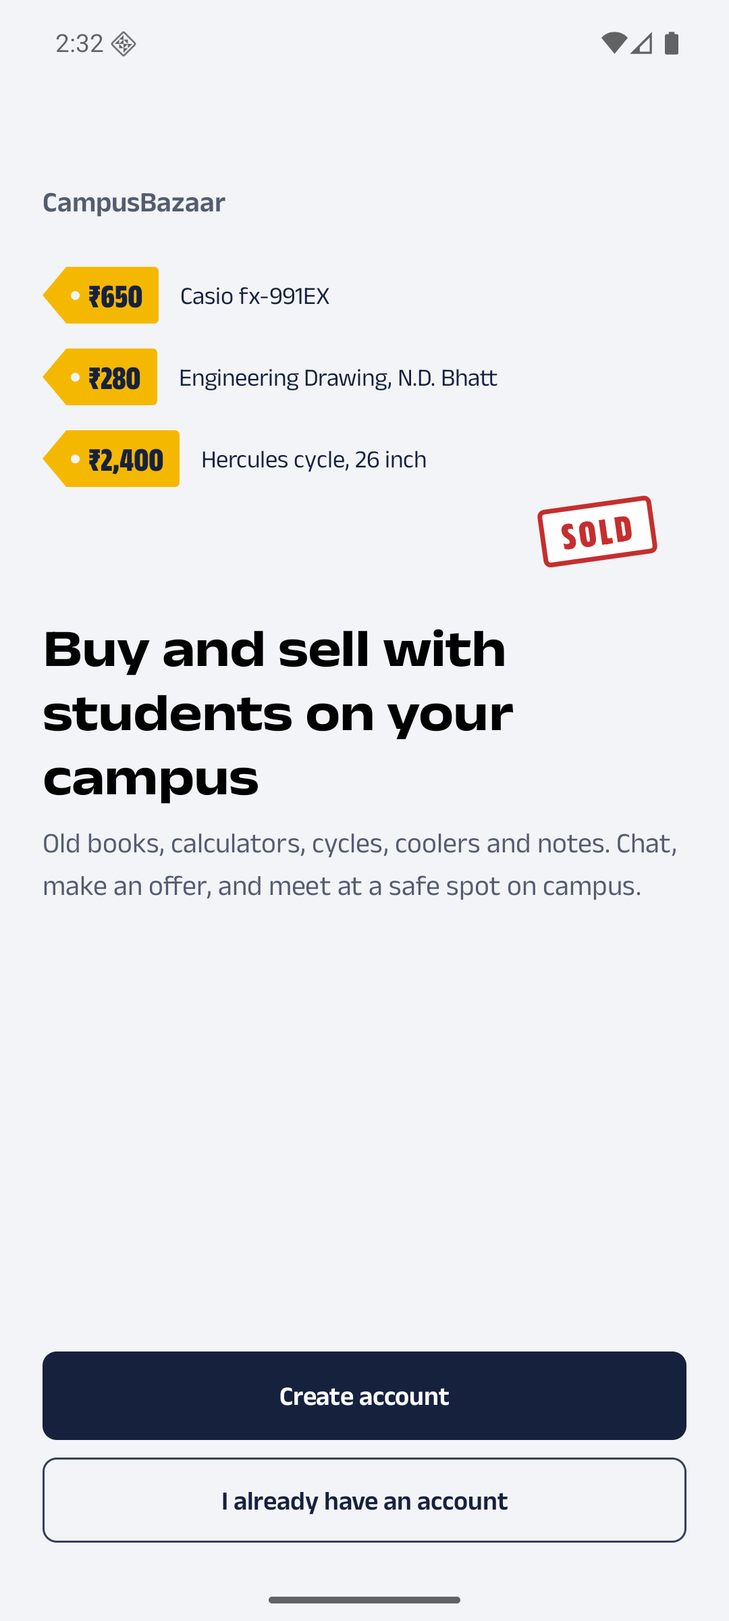
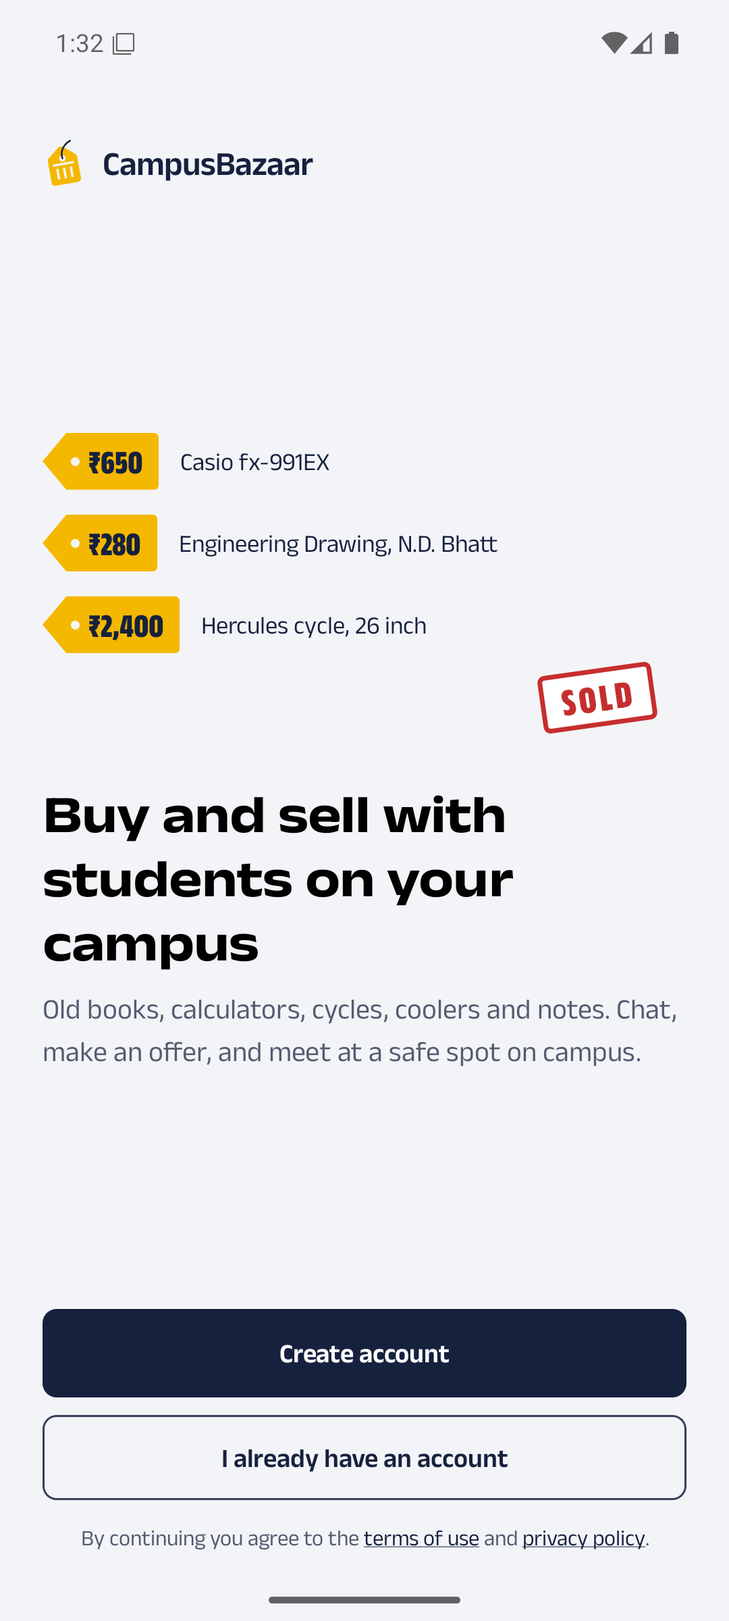
Rewrite the README and sync AGENTS.md for v1.1.0
Explains what CampusBazaar is and does, how Nexconn is integrated (who
owns identity and provisioning vs. live messaging, a feature table, and
what we learned: silent joins to missing community channels, timeout
disabling reconnection, key-bound tokens), the website, production
readiness, release and App Key rotation runbooks. New website and
welcome screenshots.

diff --git a/README.md b/README.md
@@ -1,47 +1,66 @@
-# CampusBazaar
+<p align="center">
+  <img src="server/public/brand/app-icon.svg" width="96" height="96" alt="CampusBazaar logo: a marigold price tag that doubles as a college portico">
+</p>
 
-The buy-and-sell marketplace inside your college. Students sell used books, calculators, cycles,
-coolers, hostel gear and notes to other students on the same campus, then chat, negotiate with
-offer cards and meet at a safe spot on campus. Prices in ₹.
+<h1 align="center">CampusBazaar</h1>
 
-- **Android app (signed APK):** https://n2leoh3capfibtkl.public.blob.vercel-storage.com/cbz/releases/campusbazaar-v1.0.0.apk
-  (also attached to the GitHub Release `v1.0.0`)
-- **Backend (Vercel production):** https://campusbazaar-api.vercel.app
+<p align="center">
+  The buy-and-sell marketplace inside your college, with real-time chat on Nexconn.
+</p>
 
-Built for the Nexconn Build Challenge 2026: a native Kotlin + Jetpack Compose app on the Nexconn
-Android Chat SDK, with a Next.js API on Vercel, Neon Postgres, Vercel Blob and Gemini vision.
+<p align="center">
+  <a href="https://campusbazaar-api.vercel.app">Website</a> ·
+  <a href="https://campusbazaar-api.vercel.app/download">Download for Android (v1.1.0)</a> ·
+  <a href="https://campusbazaar-api.vercel.app/safety">Safe meetup guide</a>
+</p>
+
+Students sell used books, calculators, cycles, coolers, hostel gear and notes to other students on the
+same campus. They chat, haggle with offer cards that update live on both phones, and meet at a safe
+spot on campus. Prices are in ₹ and everything is scoped to the student's campus.
+
+Built for the Nexconn Build Challenge 2026: a native Kotlin + Jetpack Compose app on the **Nexconn
+Android Chat SDK**, and a Next.js server (API and website) that uses the **Nexconn Platform Chat API**,
+on Vercel with Neon Postgres, Vercel Blob and Gemini vision.
+
+![CampusBazaar website](docs/screenshots/00-website.png)
+
+- **Android app:** [signed APK v1.1.0](https://campusbazaar-api.vercel.app/download/apk) (Android 8.0+),
+  install steps on the [download page](https://campusbazaar-api.vercel.app/download)
+- **Website and API (Vercel production):** https://campusbazaar-api.vercel.app
 
 ## What it does
 
 1. **Sign up and pick your campus.** Campuses are real rows anyone can add (name + city, deduped:
    "I.I.T. Delhi" and "IIT delhi" are the same campus). Adding a campus provisions its Nexconn
    community channel; joining one adds you to it.
-2. **Sell in under a minute.** Take photos with the in-app camera (CameraX) or pick up to 5 from
-   the photo picker. Photos upload through the server to Blob, and **Gemini vision drafts the
-   title, category, condition, description and a fair used price range in ₹**. The seller edits
-   anything, sets price, negotiable yes/no and a meetup spot. Low-confidence drafts stay
-   suggestions. Edit, reserve, mark sold or delete your listings.
+2. **Sell in under a minute.** Take photos with the in-app camera (CameraX) or pick up to 5 from the
+   photo picker. Photos upload through the server to Blob, and **Gemini vision drafts the title,
+   category, condition, description and a fair used price range in ₹**. The seller edits anything,
+   sets price, negotiable yes/no and a meetup spot. Edit, reserve, mark sold or delete listings.
 3. **Browse and find.** Campus feed (newest first), category chips, search, filters (price range,
    condition, sort), listing detail with photo pager and seller card (rating, response rate, items
    sold), saved items, and **Wanted** posts that sellers answer with one of their listings.
 4. **Chat and negotiate.** "Chat with seller" opens the Nexconn direct channel between the two
-   students, anchored by a **listing card**. **Offer cards** (Accept / Counter / Decline) keep
-   their live state in Nexconn **message metadata**, mirrored from the server's deal records, so
-   both phones update instantly. Accepting reserves the item for that buyer. A **meetup card**
-   proposes a campus spot and time (optionally with a **location message**). The seller marks it
-   sold and both sides rate each other. Text, photos, read state, unread badges, conversation list.
+   students, anchored by a **listing card**. **Offer cards** (Accept / Counter / Decline) keep their
+   live state in Nexconn **message metadata**, mirrored from the server's deal records, so both phones
+   update instantly. Accepting reserves the item for that buyer. A **meetup card** proposes a campus
+   spot and time (optionally with a **location message**). The seller marks it sold and both sides
+   rate each other. Text, photos, read receipts, unread badges, conversation list.
 5. **Campus Square.** Each campus has a Nexconn community channel with #general, #books,
    #electronics, #rides-and-trips and #lost-and-found.
-6. **Safety.** Block (Nexconn blocklist + server record that hides listings both ways), report a
-   user or listing, hide a listing, and safe-meetup tips.
+6. **Safety.** Block (Nexconn blocklist + a server record that hides listings both ways and stops
+   every deal action), report a student or listing, hide a listing, and safe-meetup tips.
 7. **Activity inbox.** Reservations, sales, ratings and wanted-post responses arrive as Nexconn
    **system-channel** notices from the CampusBazaar bot, with an in-app banner in real time.
+8. **Account deletion,** in the app (Profile → Delete account) or on the
+   [website](https://campusbazaar-api.vercel.app/delete-account). It anonymises the account, takes
+   down listings and wanted posts, and revokes the student's Nexconn tokens.
 
 ## Screenshots
 
-Real screenshots from the release APK on an Android 16 emulator, against production. The buyer
-in these runs is a second real account driven through the backend and the Nexconn Platform Chat
-API (`server/scripts/second-student.mjs`).
+Real screenshots from the release APK on an Android 16 emulator, against production. The second
+student in these runs is a real account driven through the backend and the Nexconn Platform Chat API
+(`server/scripts/second-student.mjs`).
 
 | | | |
 |---|---|---|
@@ -51,47 +70,119 @@ API (`server/scripts/second-student.mjs`).
 
 More in [docs/screenshots](docs/screenshots).
 
-## How this uses Nexconn
+## How Nexconn is integrated
 
-| Nexconn feature | Where |
-|---|---|
-| Android Chat SDK init, Singapore data center (`AreaCode.SG`), custom message registration | `android/.../chat/NexconnManager.kt` `ensureInitialized` |
-| Connect once per lifecycle, connection status handler, reconnect UI, **token refresh** on 31004/31020 and `TOKEN_INCORRECT` | `NexconnManager.connect`, `data/session/SessionManager.kt`, server `POST /api/me/nexconn-token` |
-| **Direct channels** (buyer–seller chat) | `ui/chats/ChatViewModel.kt` (`DirectChannel`) |
-| **Custom message types**: `cbz:listing`, `cbz:offer`, `cbz:meetup`, `cbz:deal`, `cbz:notice` | `chat/messages/CustomMessages.kt` |
-| **Message metadata** for offer and meetup state (sent with initial metadata, updated with `setMetadata`, `onMessageMetadataUpdated`) | `ChatViewModel.mirror`, `NexconnManager.setMetadata`; server-side equivalent in `server/scripts/second-student.mjs` |
-| **Image messages** (SDK media upload with progress) | `ChatViewModel.sendImage`, `SquareScreens.kt` |
-| **Location messages** (`RC:LBSMsg` with rendered preview) | `ChatViewModel.shareLocation`, `util/LocationThumb.kt`, relay `server/src/app/api/chats/location` |
-| **Read receipts** (`needReceipt`, `sendReadReceiptResponse`, `getMessageReadReceiptInfo`, `onMessageReceiptResponse`) | `ChatViewModel.markRead` / `refreshReceipts` |
-| **Typing indicators** (`sendTypingStatus`, `onTypingStatusChanged`) | `ChatViewModel.onTyping` / `startTyping` |
-| **Unread counts** and `clearUnreadCount` | `ConversationsScreen.kt`, `AppRoot.kt` `BadgesViewModel`, `SquareViewModel` |
-| **Conversation list** (`createChannelsQuery`) | `ConversationsViewModel` |
-| **History pagination** (`createMessagesQuery`, `loadNextPage`) | `ChatViewModel.loadHistory`, `SubchannelViewModel`, `ActivityViewModel` |
-| **Community channels + subchannels**: create, create subchannels, join, leave, membership check, list (Platform Chat API); send/receive and subchannel unread (SDK) | `server/src/lib/nexconn.ts`, `server/src/lib/campus-membership.ts`, `server/src/app/api/campus/square`, `android/.../ui/square/SquareScreens.kt` |
-| **System channel** notices from a bot account (Platform Chat API) shown as the Activity inbox | `nexconn.ts` `sendSystemNotice`, `ui/profile/ProfileScreens.kt` `ActivityViewModel` |
-| **User blocking** (`addToBlocklist` / `removeFromBlocklist`) | `NexconnManager.block`, chat/profile/listing menus |
-| **Server-side direct messages** and **message metadata** (Platform Chat API) | `nexconn.ts` `sendDirectMessage`, `setDirectMessageMetadata`; `scripts/second-student.mjs` |
-| User profile sync to Nexconn (`/v4/user/update`) | `server/src/app/api/me/route.ts` |
+```
+Android app (Compose, Retrofit, Nexconn Chat SDK 26.4.2)
+   |  HTTPS JSON (Bearer JWT)                 |  Nexconn SDK socket (Singapore data center)
+   v                                          v
+Next.js on Vercel (API + website)  ------->  Nexconn Platform Chat API (api.sg-light-api.com)
+   |  Drizzle (neon-http)   |  @vercel/blob     tokens, community channels, system notices,
+   v                        v                   direct messages, message metadata, blocklist
+Neon Postgres           Vercel Blob (photos, APK)
+   |
+   +--> Gemini (vision listing drafts, server-side key only)
+```
 
-The App Secret lives only in server env vars. The APK contains no secrets: it fetches the App Key
-from the session response / `GET /api/config`.
+The split is deliberate. **The server owns identity and provisioning**: it registers each student
+with Nexconn and issues their access token, creates and joins community channels, sends bot notices,
+and mirrors blocks. **The app owns live messaging** through the SDK: direct chats, custom cards,
+metadata updates, receipts, typing and unread counts. The server is the source of truth for deal
+state (offers, meetups, reservations); Nexconn message metadata mirrors it so both phones update
+without polling.
+
+| Nexconn feature | What students see | Where |
+|---|---|---|
+| Android Chat SDK init, Singapore data center (`AreaCode.SG`), custom message registration | — | `android/.../chat/NexconnManager.kt` `ensureInitialized` |
+| Access tokens issued by the server (`/v4/auth/access-token/issue`), one connect per lifecycle, refresh on 31004/31020 and `TOKEN_INCORRECT`, single-flight refresh | Stays signed in to chat | `NexconnManager.connect`, `data/session/SessionManager.kt`, `POST /api/me/nexconn-token` |
+| **Direct channels** | "Chat with seller" | `ui/chats/ChatViewModel.kt` (`DirectChannel`) |
+| **Custom message types**: `cbz:listing`, `cbz:offer`, `cbz:meetup`, `cbz:deal`, `cbz:notice` | Listing, offer, meetup and deal cards | `chat/messages/CustomMessages.kt` |
+| **Message metadata** (sent with initial metadata, updated with `setMetadata`, `onMessageMetadataUpdated`; server-side `/v4/channel-type/message/metadata/set`) | Offer and meetup cards change state live on both phones | `ChatViewModel.mirror`, `NexconnManager.setMetadata`, `scripts/second-student.mjs` |
+| **Image messages** (SDK media upload with progress) | Photos in chat and Campus Square | `ChatViewModel.sendImage`, `SquareScreens.kt` |
+| **Location messages** (`RC:LBSMsg` with rendered preview) | Map pin on a meetup | `ChatViewModel.shareLocation`, `util/LocationThumb.kt`, relay `api/chats/location` |
+| **Read receipts** (`needReceipt`, `sendReadReceiptResponse`, `getMessageReadReceiptInfo`) | Seen ticks, only while the chat is on screen | `ChatViewModel.markRead` / `refreshReceipts` |
+| **Typing indicators** (`sendTypingStatus`, `onTypingStatusChanged`) | "typing…" | `ChatViewModel.onTyping` |
+| **Unread counts**, `clearUnreadCount`, **conversation list** (`createChannelsQuery`) | Chats tab and badges | `ConversationsScreen.kt`, `AppRoot.kt` `BadgesViewModel` |
+| **History pagination** (`createMessagesQuery`, `loadNextPage`) | Scroll back through a chat | `ChatViewModel.loadHistory`, `SubchannelViewModel`, `ActivityViewModel` |
+| **Community channels + subchannels** (create, subchannel create/list, join, leave, member check via the Platform API; send/receive via the SDK) | Campus Square | `server/src/lib/nexconn.ts`, `server/src/lib/campus-membership.ts`, `api/campus/square`, `ui/square/SquareScreens.kt` |
+| **System channel** notices from a bot (`/v4/system-channel/message/send`) | Activity inbox and banners | `nexconn.ts` `sendSystemNotice`, `ProfileScreens.kt` `ActivityViewModel` |
+| **User blocklist** (SDK `addToBlocklist` plus server `/v4/user/blocklist/add` and `/remove`) | Block a student | `NexconnManager.block`, `api/blocks` |
+| **Server-side direct messages** (`/v4/direct-channel/message/send`) | Location relay, demo buyer | `nexconn.ts` `sendDirectMessage` |
+| User profile sync (`/v4/user/update`) and **token expiry** (`/v4/auth/access-token/expire`) | Name and photo in chat; chat access revoked on account deletion | `api/me`, `server/src/lib/account.ts` |
+
+The App Secret lives only in server env vars. The APK contains no secrets: it gets the App Key from
+the session response and `GET /api/config`.
+
+### What we learned about Nexconn
+
+- **Joining a community channel that doesn't exist succeeds.** `community-channel/join` returns
+  `code 0` for a channel that was never created, and `member/exist` then reports `isMember: true`.
+  After an App Key change nothing fails loudly, so Campus Square provisioning is self-healing: a
+  channel with none of its subchannels is treated as unprovisioned and created (create calls are
+  idempotent). Campus channel ids are an HMAC of the normalised campus name, so retries and races
+  converge on one channel.
+- **A positive connect `timeout` turns off reconnection.** With `timeout > 0` the SDK gives up after
+  that time and reports `TIMEOUT`. The app uses `timeout = 0` (the SDK's own strategy) and reconnects
+  itself when the network returns after a failure.
+- **Access tokens only work with the App Key that issued them** (31004). The app checks the server's
+  current key before connecting and re-initialises the SDK if it changed.
+- Business error codes are four or five digits; only 429, 500 and 504 are transient. The server
+  client fails fast on everything else and never retries message sends on a timeout, so a notice
+  can't arrive twice.
+- The Android SDK rejects client-side location messages on this App Key with the undocumented error
+  31610; the app sends the same `RC:LBSMsg` through the Platform API instead.
+- Typing status only works in direct channels.
+
+## The website
+
+The Next.js server also serves the public site, in the same visual language as the app: four
+colours (paper `#F3F4F7`, ink `#16213E`, marigold price-tag `#F5B800`, stamp red `#C62E2E`) and one
+typeface, Anek Latin, using its width axis (expanded headlines, condensed price tags).
+
+- `/`: the hero replays a real negotiation in the app's own chat UI (offer, counter, ACCEPTED stamp,
+  reserved, confirmed meetup); a sticky phone walks through the four deal steps with real screenshots;
+  Campus Square; safety; a Built on Nexconn table; FAQ; QR download. Motion pauses off screen and
+  respects `prefers-reduced-motion`.
+- `/download` with install steps and a QR code; `/download/apk` is a stable link that redirects to the
+  current signed APK.
+- `/safety` (safe meetup guide, including UPI scams and the 1930 cyber fraud helpline), `/privacy`,
+  `/terms`, `/delete-account`, and a 404 page.
+- Favicon, Apple touch icon, PWA manifest and icons, Open Graph and Twitter cards, `robots.txt`,
+  `sitemap.xml`, and security headers on every route.
+
+**Logo.** An upright marigold price tag on its string that doubles as a college portico: pediment,
+round window, lintel and columns. One definition in `server/scripts/build-brand.mjs` generates every
+icon; the Android launcher and in-app mark use the same geometry.
+
+## Production readiness
+
+- **Security:** secrets server-side only; bcrypt passwords; JWT sessions that stop working the moment
+  an account is deleted; Postgres-backed rate limits (sign-in counts only failed attempts, per
+  network and per account); zod validation on every input; listing photos and avatars must be the
+  student's own uploads (no third-party hosts, no `file:`/`javascript:` URIs); `X-Frame-Options`,
+  `nosniff`, `Referrer-Policy` and `Permissions-Policy` headers.
+- **Deal integrity:** accepting an offer reserves the item and accepts the offer in one SQL statement,
+  so concurrent accepts can't both win; blocks are enforced on every offer, counter, accept and
+  meetup action; sold listings can't be deleted (they back ratings and items-sold counts).
+- **Privacy:** no analytics or ad SDKs; email never shown to other students; account deletion in the
+  app and on the web, which anonymises the account while keeping counterparties' deal history.
+- **Tests:** 17 server unit tests, 17 Android unit tests, and a 56-check end-to-end suite that runs
+  against production (Neon, Nexconn, Blob and a real Gemini vision draft) and cleans up after itself.
+  Each release is also driven on an emulator against production with a second, API-driven student.
 
 ## Tech stack
 
 - **Android:** Kotlin 2.2, Jetpack Compose (Material 3), Navigation (type-safe routes), manual
   constructor DI (`AppContainer`), Retrofit + kotlinx.serialization, OkHttp with offline cache
-  fallback, Coil 3, CameraX, DataStore + Android Keystore (AES-GCM) for the session, Nexconn Chat
-  SDK 26.4.2. minSdk 26, target/compile 36.
-- **Server:** Next.js 16 route handlers (TypeScript strict), Drizzle ORM on Neon Postgres, zod,
-  bcrypt + JWT, Postgres-backed rate limiting, Vercel Blob, `@google/genai` (Gemini
-  `gemini-3.5-flash-lite` with fallback `gemini-3.1-flash-lite`, structured JSON output).
-- **Design:** four colours (paper `#F3F4F7`, ink `#16213E`, marigold price-tag `#F5B800`, stamp
-  red `#C62E2E`), no gradients; Anek Latin variable font (Ek Type) bundled, with its width axis
-  used for price tags; Material icons.
+  fallback, Coil 3, CameraX, DataStore + Android Keystore (AES-GCM) for the session, Nexconn Chat SDK
+  26.4.2. minSdk 26, target/compile 36.
+- **Server and website:** Next.js 16 (App Router, TypeScript strict), Drizzle ORM on Neon Postgres,
+  zod, bcrypt + JWT, Vercel Blob, `@google/genai` (Gemini `gemini-3.5-flash-lite` with fallback
+  `gemini-3.1-flash-lite`, structured JSON output), Anek Latin via `next/font`, `qrcode`.
 
 ## Run it
 
-### Server
+### Server and website
 
 ```
 cd server
@@ -99,10 +190,12 @@ npm install
 vercel env pull .env.local --yes      # Neon, Blob, Nexconn, Gemini, JWT_SECRET, NEXCONN_ID_PREFIX
 npm run db:migrate
 npm run dev                           # http://localhost:3107
-npm test                              # 14 unit tests
-node scripts/e2e.mjs https://campusbazaar-api.vercel.app path/to/item-photo.jpg   # 48 live checks
+npm test                              # 17 unit tests
+node scripts/e2e.mjs https://campusbazaar-api.vercel.app path/to/item-photo.jpg   # 56 live checks
 vercel deploy --prod
 ```
+
+Brand assets (favicon, icons, web screenshots) are generated with `node scripts/build-brand.mjs`.
 
 ### Android
 
@@ -129,26 +222,36 @@ keytool -genkeypair -keystore android/campusbazaar-release.jks -alias campusbaza
 # keyPassword=...
 ```
 
+**Publishing a release.** Bump `versionCode`/`versionName`, build the release APK, upload it to Blob
+as `cbz/releases/campusbazaar-v<version>.apk`, set `APK_DOWNLOAD_URL` on Vercel and redeploy. The
+website reads the version from that URL.
+
+### Rotating the Nexconn App Key
+
+1. Set `NEXCONN_APP_KEY`, `NEXCONN_APP_SECRET` and `NEXCONN_API_BASE` in Vercel (Production and
+   Development) and in `server/.env.local`, then `vercel deploy --prod`.
+2. Nothing else is needed. Users, the notice bot and community channels are registered in the new
+   app on first use (Campus Square self-heals), and the app picks up the new key from
+   `/api/config`, fetches a matching token and re-initialises the SDK.
+3. Chat history from the old app isn't carried over: Nexconn messages belong to the app that sent
+   them. Deal state lives on the server and is unaffected.
+
 ### Two-sided demo with one phone
 
-`server/scripts/second-student.mjs` drives a second real student through the backend and the
-Nexconn Platform Chat API (sign up, join campus, find, chat, offer, accept/counter, confirm
-meetup, rate, post in Campus Square). It needs `server/.env.local` (the Nexconn secret never
-leaves the server machine).
+`server/scripts/second-student.mjs` drives a second real student through the backend and the Nexconn
+Platform Chat API (sign up, join campus, find, chat, offer, accept/counter, confirm meetup, rate, post
+in Campus Square). It needs `server/.env.local` (the Nexconn secret never leaves the server machine).
 
 ## Known limitations
 
-- **No push notifications.** FCM would require configuring the shared Nexconn console, which was
-  not allowed. The app shows real-time in-app banners and posts local notifications while its
-  process is alive, plus the Activity inbox.
-- **Location messages are relayed.** On this App Key the Android SDK rejects client-side
-  `RC:LBSMsg` sends with an undocumented error 31610. The app tries the SDK first, then asks the
-  server to send the same built-in location message through the Platform Chat API (echoed back to
-  the sender). Text, image and custom messages go through the SDK directly.
-- One direct channel per pair of students (that is how Nexconn direct channels work). Each
-  listing's negotiation is anchored by its listing card and a per-listing thread on the server;
-  when two students negotiate several items, the chat header lets you switch the active item.
-- Typing indicators and read receipts are implemented with the SDK; the emulator run used one
-  device plus a server-driven second student, so typing was not observed end to end.
-- The in-app camera works; the emulator's virtual camera preview did not render in screenshots, so
-  the demo listing used the photo picker.
+- **No push notifications.** FCM would require configuring the shared Nexconn console, which was not
+  allowed. The app shows real-time in-app banners and posts local notifications while its process is
+  alive, plus the Activity inbox.
+- **Location messages are relayed** through the server (see error 31610 above). Text, image and
+  custom messages go through the SDK directly.
+- One direct channel per pair of students (that is how Nexconn direct channels work). Each listing's
+  negotiation is anchored by its listing card and a per-listing thread on the server; when two
+  students negotiate several items, the chat header lets you switch the active item.
+- Android only; there is no iOS app yet. The APK is distributed directly rather than through the Play
+  Store.
+- Typing indicators were not observed end to end (one emulator plus a server-driven second student).

diff --git a/AGENTS.md b/AGENTS.md
@@ -7,8 +7,9 @@ is scoped to the student's campus.
 
 Two deliverables live in this repo:
 
-- `server/`: Next.js 16 (App Router route handlers only, TypeScript strict) deployed to Vercel
-  project `campusbazaar-api`. Neon Postgres via Drizzle, Vercel Blob for photos, Gemini vision
+- `server/`: Next.js 16 (App Router, TypeScript strict) deployed to Vercel project
+  `campusbazaar-api`: the JSON API (route handlers) and the public website (landing, download,
+  safety, privacy, terms, account deletion). Neon Postgres via Drizzle, Vercel Blob for photos, Gemini vision
   for listing drafts, Nexconn Platform Chat API for tokens, community channels, system notices
   and message metadata.
 - `android/`: native Kotlin + Jetpack Compose app on the Nexconn Android Chat SDK
@@ -90,12 +91,16 @@ Neon Postgres           Vercel Blob (photos)
 ```
 server/
   src/app/api/...        route handlers (one folder per resource)
+  src/app/page.tsx       website landing page; download/, safety/, privacy/, terms/, delete-account/ pages
+  src/components/site/   website components (HaggleDemo, DealFlow, brand mark, header/footer)
+  src/lib/account.ts     account deletion (anonymise, take down listings, expire Nexconn tokens)
+  src/lib/uploads.ts     own-upload checks for photo and avatar URLs
   src/lib/db/schema.ts   Drizzle schema (source of truth); migrations in server/drizzle/
   src/lib/nexconn.ts     signed Platform Chat API client
   src/lib/gemini.ts      vision listing drafts with retries + fallback model
   src/lib/auth.ts        bcrypt + JWT sessions, requireUser()
   src/lib/validation.ts  zod schemas for every input
-  scripts/               migrate.ts, e2e.mjs (production smoke test)
+  scripts/               migrate.ts, e2e.mjs (production smoke test), build-brand.mjs (logo -> all icons)
   tests/                 vitest unit tests
 android/app/src/main/java/app/campusbazaar/
   CampusBazaarApp.kt, MainActivity.kt, AppContainer.kt   app entry, manual DI, in-app notifications
@@ -123,7 +128,8 @@ See `server/src/lib/db/schema.ts`.
 
 Server: `DATABASE_URL`, `DATABASE_URL_UNPOOLED`, `BLOB_READ_WRITE_TOKEN`, `NEXCONN_APP_KEY`,
 `NEXCONN_APP_SECRET`, `NEXCONN_API_BASE`, `NEXCONN_ID_PREFIX`, `JWT_SECRET`, `GEMINI_API_KEY`,
-`GEMINI_MODEL`, `GEMINI_FALLBACK_MODEL`, `APK_DOWNLOAD_URL`.
+`GEMINI_MODEL`, `GEMINI_FALLBACK_MODEL`, `APK_DOWNLOAD_URL`, `SITE_URL` (optional; defaults to the
+Vercel production domain).
 Android: `API_BASE_URL` build config field (no secrets in the APK; the Nexconn App Key comes
 from `/api/config`).
 
@@ -152,6 +158,10 @@ cd android
 - Every route goes through `route()` (consistent JSON errors) and `requireUser()`; campus-scoped
   routes use `requireCampusUser()`. Inputs are validated with zod.
 - Money is whole rupees (integer).
+- Campus community channel ids come from `campusChannelId(normKey)` (HMAC, stable); provisioning goes
+  through `ensureCampusCommunity`, which self-heals because joining a missing channel "succeeds".
+- A wrong password on an authenticated route returns 403, never 401: the app signs out on any 401.
+- Website pages are static; keep motion purposeful and honour `prefers-reduced-motion`.
 - Commits end with the Co-Authored-By line; work lands through PRs (squash merge).
 
 ## Nexconn features and where they live
@@ -161,13 +171,14 @@ AreaCode.SG, single connect with token refresh, direct channels, five custom mes
 message metadata for offer/meetup state, image messages, location messages (with server relay
 fallback), read receipts, typing indicators, unread counts, conversation list, history
 pagination, community channel + subchannels (created/joined via Platform Chat API, used via SDK),
-system-channel notices from a bot, user blocklist, server-side direct messages and metadata.
+system-channel notices from a bot, user blocklist (SDK and server), server-side direct messages and
+metadata, access-token expiry on account deletion.
 
 ## Testing
 
-- Server unit tests: `cd server && npm test` (14, vitest).
+- Server unit tests: `cd server && npm test` (17, vitest).
 - Server e2e against production: `node scripts/e2e.mjs https://campusbazaar-api.vercel.app <photo>`
-  (48 checks incl. a real Gemini vision draft; cleans up its test data).
+  (56 checks incl. a real Gemini vision draft and account deletion; cleans up its test data).
 - Android unit tests: `cd android && ./gradlew testDebugUnitTest` (17 JVM tests).
 - Emulator run (release APK, production): seller on device, buyer via `second-student.mjs`, then a
   second login as the buyer on the device. Screenshots in docs/screenshots.
@@ -176,6 +187,8 @@ system-channel notices from a bot, user blocklist, server-side direct messages a
 
 - No FCM push (shared console). In-app banners + local notifications while the process is alive,
   and the Activity inbox (system channel).
+- `ConnectParams.timeout > 0` makes the SDK stop reconnecting; the app uses 0 and reconnects when the
+  network returns after a failure.
 - Client-side location sends fail on this App Key with undocumented error 31610; the app falls back
   to `POST /api/chats/location`, which sends the same RC:LBSMsg via the Platform Chat API.
 - SDK gotcha: `CommunitySubChannel(subChannelId, channelId)` takes the subchannel id first, unlike
